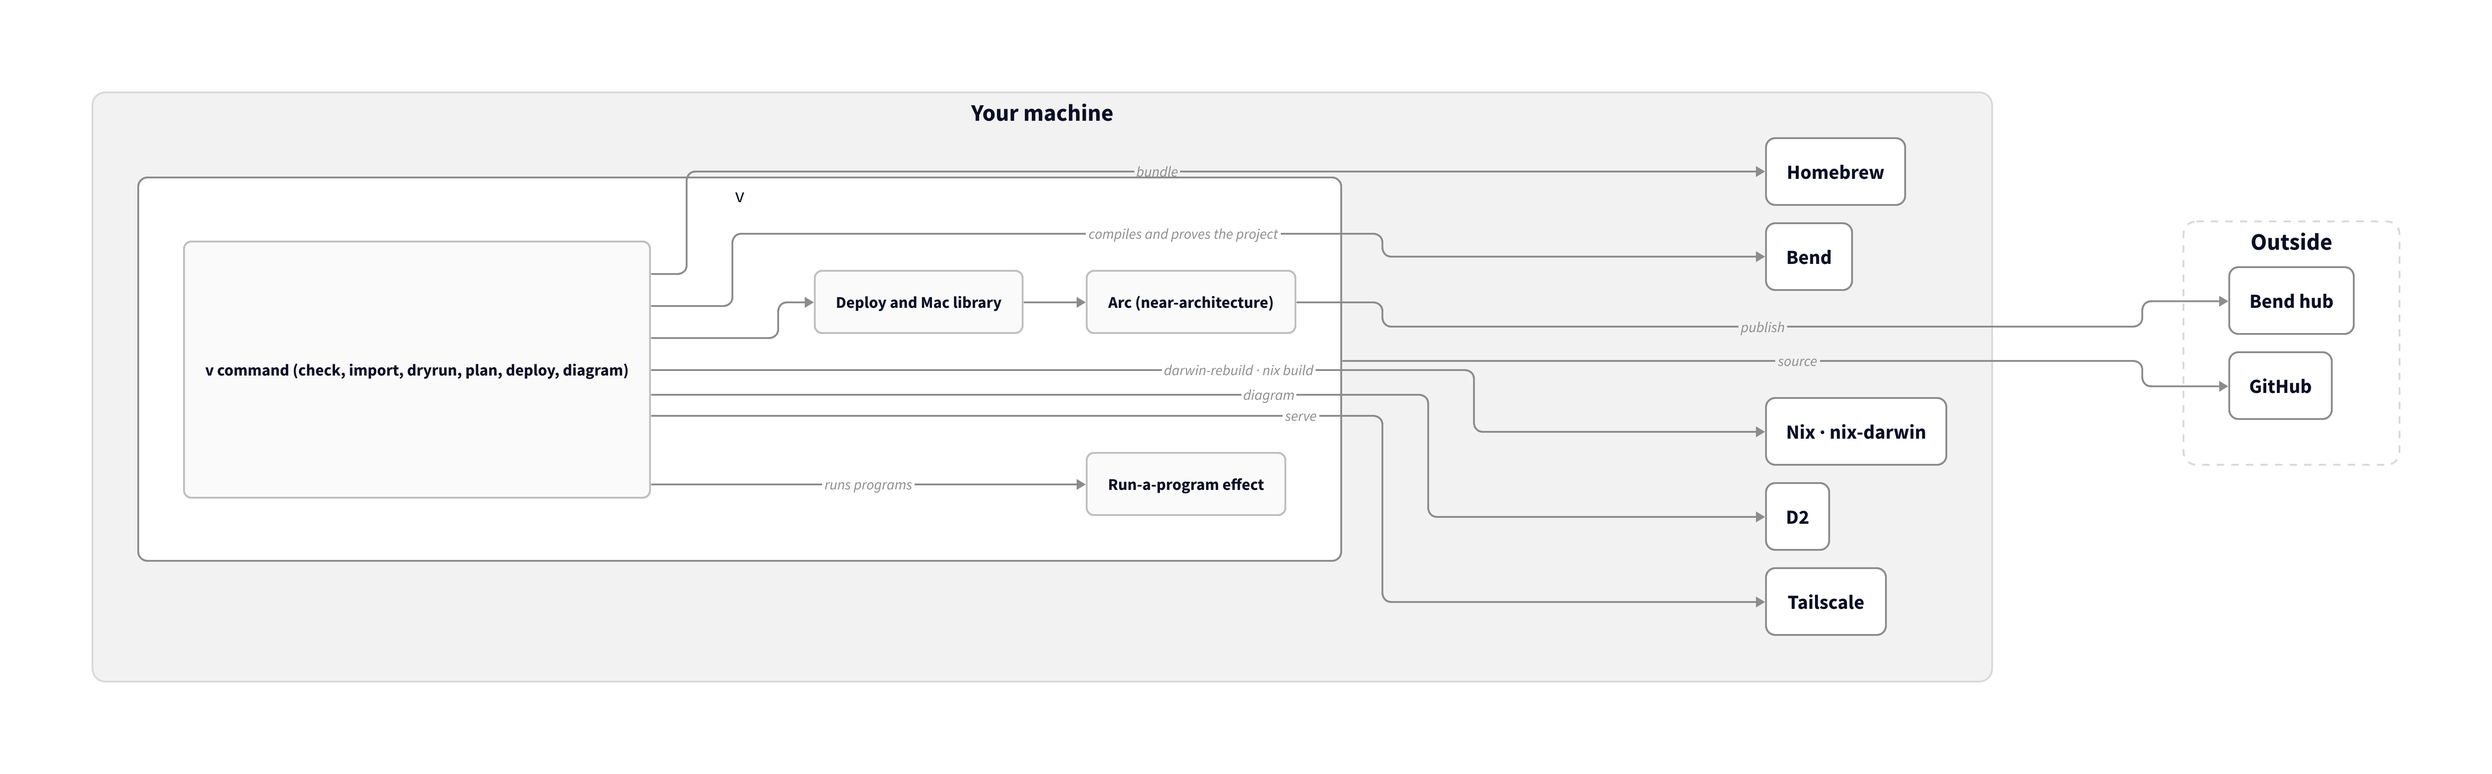
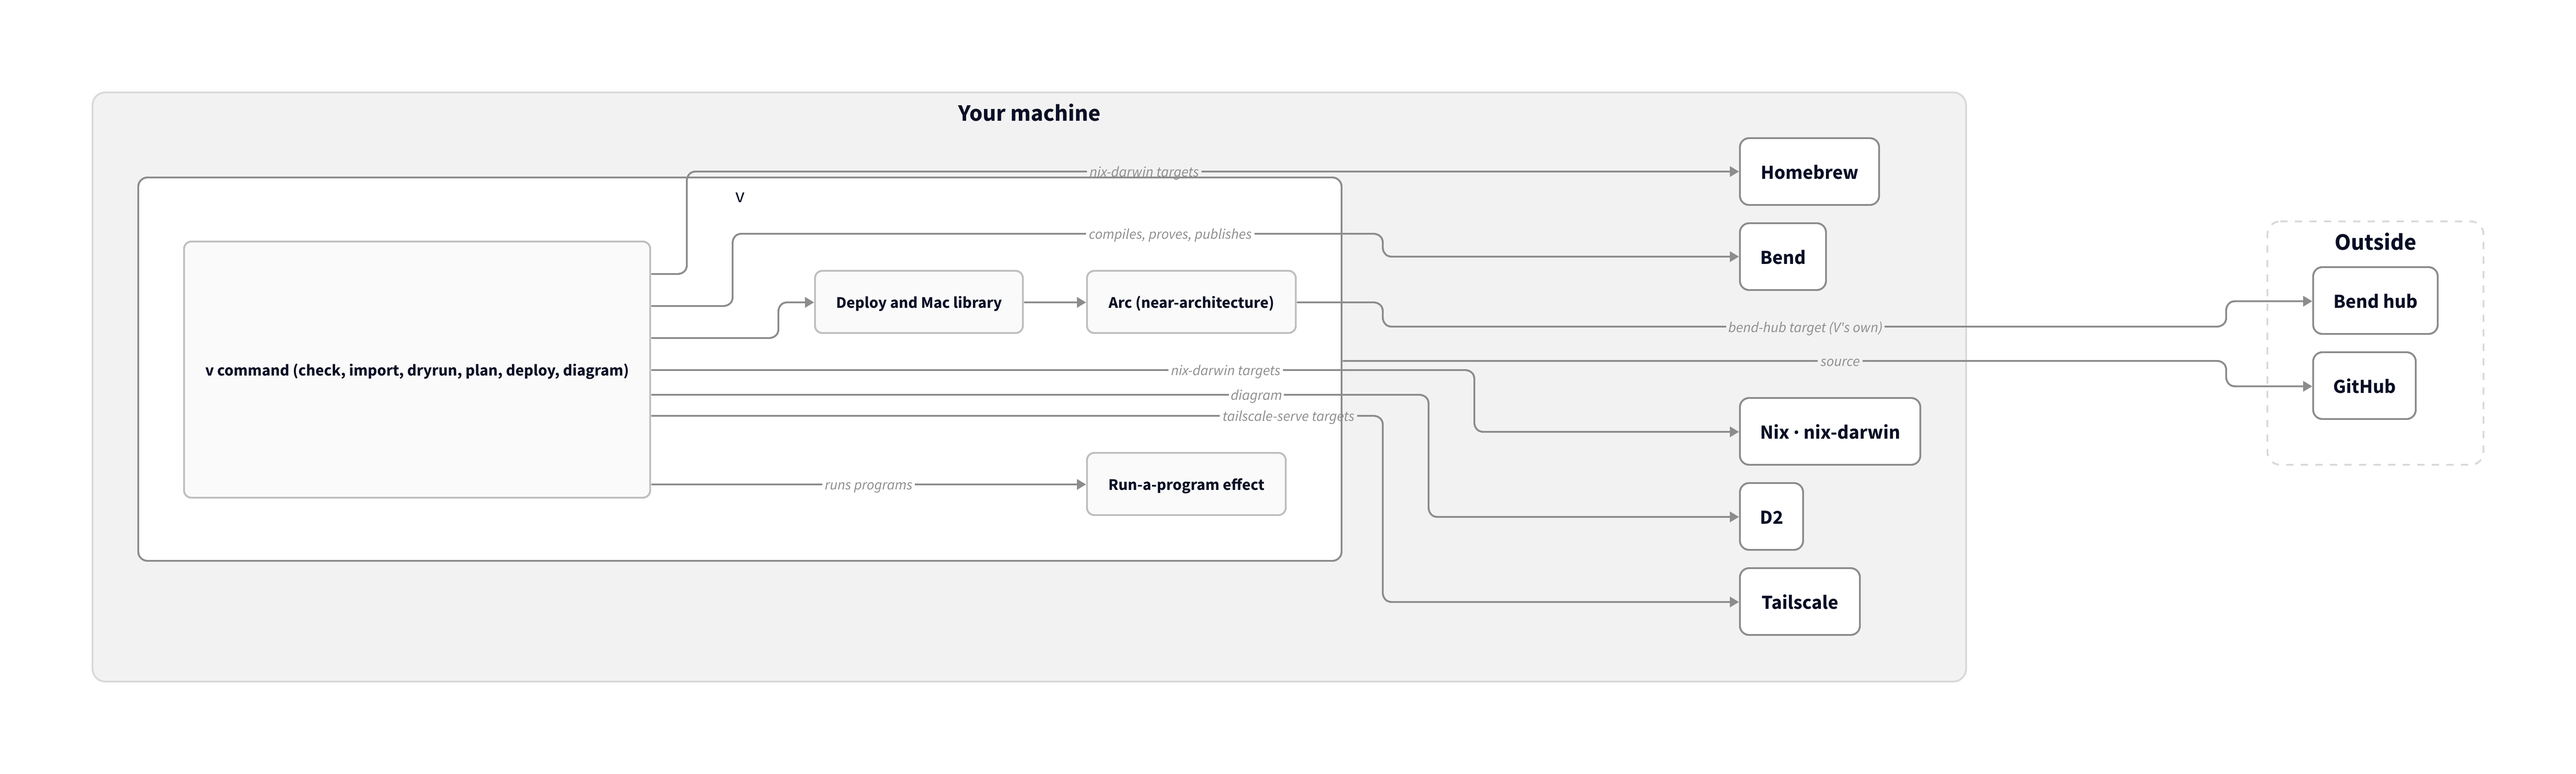
Deploy targets: a project declares NixDarwin, TailscaleServe and/or BendHub; V deploys itself to the hub
- v check snapshots the machine only for nix-darwin projects; v deploy runs only declared
  targets; BendHub publishes each package, leaves unchanged ones, and fails on changed
  files without a version bump.
- arch/ is V as a V project (target BendHub, package near-architecture).

diff --git a/README.md b/README.md
@@ -34,19 +34,29 @@ network, each capability provided exactly once, and a D2 diagram.
 
 Packages: `bend-net-json@0.3.0.0` (Tailscale's serve status), `bend-net-url@0.4.0.0` (URL decoding).
 
+## Targets
+
+A project declares where it deploys, and `v deploy` runs only those targets:
+
+- `NixDarwin{host}`: configure a Mac with nix-darwin (`v import` and `v dryrun` read and
+  diff it). Needs Nix and Homebrew.
+- `TailscaleServe{}`: serve the plan's ports on the private network. Needs Tailscale.
+- `BendHub{}`: publish the project's packages. A package already published with the same
+  files is left alone; changed files without a new version fail the deploy.
+
 ## V's own architecture
 
-`arch/` describes V itself with Arc: the `v` command on your machine, the tools it drives
-(Bend, Nix, Homebrew, Tailscale, D2), and where it deploys (the Bend hub) and lives (GitHub).
-Its laws include the hub's rules for every package V publishes. Prove them with
-`bend arch/PROOF.bend`.
+`arch/` is V as a V project: the `v` command, the tools it drives, the Bend hub it deploys
+to and GitHub. Its target is `BendHub`, so `cd arch && v deploy` proves V's laws and
+publishes Arc (`near-architecture`).
 
 ## A project
 
 `v` runs in a project's folder. The project describes itself with Arc and V's library and
-provides small programs `v` compiles and runs: `facts.bend` (its flake host, where V's
-library is, its services), `plan.bend`, `current.bend`, `flake.bend`, `diagram.bend`,
-`mac.gen.bend`, `mac.dryrun.bend`, and its laws (`LAWS.bend` / `PROOF.bend`).
+provides small programs `v` compiles and runs: `facts.bend` (where V's library is, its
+targets, services and packages) and its laws (`LAWS.bend` / `PROOF.bend`), plus, for the
+targets that use them, `plan.bend`, `current.bend`, `flake.bend`, `mac.gen.bend`,
+`mac.dryrun.bend` and `diagram.bend`.
 
 ```sh
 bend cli/main.bend -o bin/v     # build v
@@ -54,7 +64,7 @@ v check      # snapshot the machine, then prove the project's laws
 v import     # read the Mac into mac.now.bend (mac.bend keeps its declarations)
 v dryrun     # what applying mac.bend would change, without changing anything
 v plan       # the deploy steps
-v deploy     # prove, then apply with nix-darwin and Tailscale Serve
+v deploy     # prove, then run the project's targets
 v diagram out.png
 ```
 
